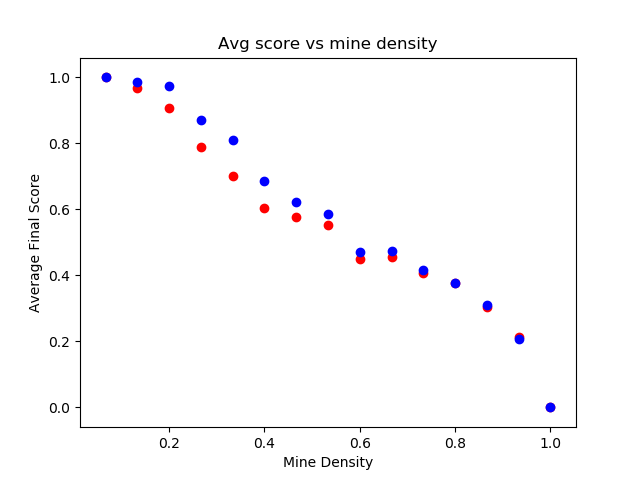
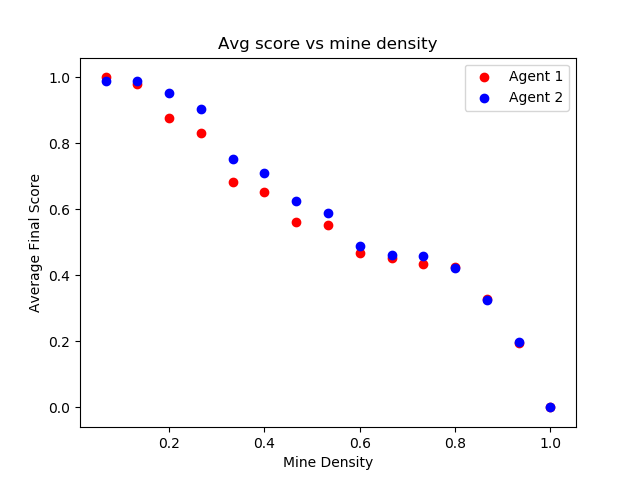
more comments done

diff --git a/runMS.py b/runMS.py
@@ -4,75 +4,82 @@ import numpy as np
 
 
 
-agent1_scores = []
-agent2_scores = []
+#test with user input make sure to uncomment graphics
+print("Please enter the dimension of the size board you want to play on: ")
+dim = int(input())
+print("Enter how many mines you want in the board: ")
+num_mines = int(input())
 
-# test with user input make sure to uncomment graphics
-# print("Please enter the dimension of the size board you want to play on: ")
-# dim = int(input())
-# print("Enter how many mines you want in the board: ")
-# num_mines = int(input())
-
-# matrix = get_answer_key(dim, num_mines)
-# playboard1, flags1 = play_minesweeper(dim,matrix,False)
-# playboard2, flags2 = play_minesweeper(dim,matrix,True)
-
-#testing for data
-dim = 15
-num_mines = 15
-while num_mines <= 225:
-    flags_a1 = 0
-    flags_a2 = 0
-    for i in range(0,5):
-	    matrix = get_answer_key(dim, num_mines)
-	    #run without agent 2
-	    playboard1, flags1 = play_minesweeper(dim,matrix,False)
-	    for i in range(0,dim):
-	        for j in range(0, dim):
-	            if(playboard1[i,j].mine == 3):
-	                flags_a1+=1
-
-	    #run with agent2
-	    playboard2, flags2 = play_minesweeper(dim,matrix,True)
-	    for i in range(0,dim):
-	        for j in range(0, dim):
-	            if(playboard2[i,j].mine == 3):
-	                flags_a2+=1
-    #add as a tuple as density vs flag success rate
-    agent1_scores.append((num_mines/225, float(flags_a1/(num_mines*5))))
-    agent2_scores.append((num_mines/225, float(flags_a2/(num_mines*5))))
-    print("MINES ", num_mines)
-    num_mines+=15
-
-x = np.empty(len(agent1_scores))
-y1 = np.empty(len(agent1_scores))
-y2 = np.empty(len(agent2_scores))
-ctr = 0
-
-for item in agent1_scores:
-    print("num_mines1: ", item[0], "score1: ", item[1])
-    x[ctr] = item[0]
-    y1[ctr] = item[1]
-    ctr += 1
-
-ctr = 0
-for item2 in agent2_scores:
-    print("num_mines2: ", item2[0], "score2: ", item2[1])
-    y2[ctr] = item2[1]
-    ctr += 1
-
-# x = np.array(agent1_scores[0])
-# y1 = np.array(agent1_scores[1])
-# y2 = np.array(agent2_scores[1])
-print(x)
-print(y1)
-print(y2)
+matrix = get_answer_key(dim, num_mines)
+playboard1, flags1 = play_minesweeper(dim,matrix,False)
+playboard2, flags2 = play_minesweeper(dim,matrix,True)
 
 
-plt.scatter(x,y1,color='r')
-plt.scatter(x,y2,color='b')
-plt.title('Avg score vs mine density')
-plt.xlabel('Mine Density')
-plt.ylabel('Average Final Score')
-plt.savefig('avgscore_minedensity.png')
-plt.show()
+
+#***START ANALYSIS***
+
+
+# agent1_scores = []
+# agent2_scores = []
+
+# #testing for data
+# dim = 15
+# num_mines = 15
+# while num_mines <= 225:
+#     flags_a1 = 0
+#     flags_a2 = 0
+#     for i in range(0,5):
+# 	    matrix = get_answer_key(dim, num_mines)
+# 	    #run without agent 2
+# 	    playboard1, flags1 = play_minesweeper(dim,matrix,False)
+# 	    for i in range(0,dim):
+# 	        for j in range(0, dim):
+# 	            if(playboard1[i,j].mine == 3):
+# 	                flags_a1+=1
+
+# 	    #run with agent2
+# 	    playboard2, flags2 = play_minesweeper(dim,matrix,True)
+# 	    for i in range(0,dim):
+# 	        for j in range(0, dim):
+# 	            if(playboard2[i,j].mine == 3):
+# 	                flags_a2+=1
+#     #add as a tuple as density vs flag success rate
+#     agent1_scores.append((num_mines/225, float(flags_a1/(num_mines*5))))
+#     agent2_scores.append((num_mines/225, float(flags_a2/(num_mines*5))))
+#     print("MINES ", num_mines)
+#     num_mines+=15
+
+# #make numpy arrays out of data to put in scatterplot 
+# x = np.empty(len(agent1_scores))
+# y1 = np.empty(len(agent1_scores))
+# y2 = np.empty(len(agent2_scores))
+# ctr = 0
+
+# for item in agent1_scores:
+#     print("num_mines1: ", item[0], "score1: ", item[1])
+#     x[ctr] = item[0]
+#     y1[ctr] = item[1]
+#     ctr += 1
+
+# ctr = 0
+# for item2 in agent2_scores:
+#     print("num_mines2: ", item2[0], "score2: ", item2[1])
+#     y2[ctr] = item2[1]
+#     ctr += 1
+
+
+# # print(x)
+# # print(y1)
+# # print(y2)
+
+# #plot data in scatterplot
+# plt.scatter(x,y1,color='r', label = 'Agent 1')
+# plt.scatter(x,y2,color='b', label = 'Agent 2')
+# plt.title('Avg score vs Mine density')
+# plt.xlabel('Mine Density')
+# plt.ylabel('Average Final Score')
+# plt.legend()
+# plt.savefig('avgscore_minedensity.png')
+# plt.show()
+
+#***END ANALYSIS***

diff --git a/main.py b/main.py
@@ -65,7 +65,6 @@ def play_minesweeper(dim,matrix,agent2_2):
     playboard[v,w].num = matrix[v,w]
     if (w,v) not in clicked:
         clicked.append((w,v))
-        # print("appended", (v,w))
     #update the knowledge base (playboard) based on if it is a 9(mine) or not
     if (matrix[v,w] != 0):
         if (matrix[v,w] == 9):
@@ -77,7 +76,6 @@ def play_minesweeper(dim,matrix,agent2_2):
         if (v,w) not in knowledge_expanded:
             updateKB(playboard,(v,w), dim, matrix, clicked)
             knowledge_expanded.add((v,w))
-    # print("random",(v,w))
 
     #keep clicking spots in the initial part of the game until you get a 0 so that you can expand safely from there
     while(matrix[v,w] != 0):
@@ -86,23 +84,17 @@ def play_minesweeper(dim,matrix,agent2_2):
         playboard[v,w].num = matrix[v,w]
         if (w,v) not in clicked:
             clicked.append((w,v))
-            # print("appended", (v,w))
         if (v,w) not in knowledge_expanded:
             updateKB(playboard,(v,w), dim, matrix, clicked)
             knowledge_expanded.add((v,w))
         if len(clicked)>dim/5:
             break
-        # print("Random: ", (v,w))
-    #pprint(agent2.populateEQMap(dim,playboard,set_of_coords))
 
     #use this method to expand all the safe neighbors from the coordinate that has a 0 value
     #all values around a 0 are safe
     if playboard[v,w].num == 0:
         playboard = bfs_from_0(playboard,(v,w), dim, matrix, knowledge_expanded, set_of_coords, clicked)
 
-    # for i in range(0,dim):
-    #     for j in range(0,dim):
-    #         print((i,j), playboard[i,j])
 
     deep_copy = set()
     for coords in set_of_coords:
@@ -117,12 +109,8 @@ def play_minesweeper(dim,matrix,agent2_2):
     #while size>0:
 
     while(len(set_of_coords)>0):
-        #graphics.display_graphics(playboard, dim)
-
         prev_len = len(set_of_coords)
-        # prev_len = size
-        # print("SIZE", size)
-        # print("prev", prev_len)
+
 
         #deep_copy is same as set_of_coords
         for coords in deep_copy:
@@ -162,21 +150,14 @@ def play_minesweeper(dim,matrix,agent2_2):
 
 
 
-
+        #run agent 2 if specified in parameters
         if(prev_len == len(set_of_coords)):
             if agent2_2 == True:
-            #if prev_len == size:
                 prev_len = len(set_of_coords)
-                # print("here")
                 counter+=1
 
-                # print("The length of clicked before is ", len(clicked))
-                # print("-------------------- start -----------------------")
                 flag_counter = agent2.populateEQMap(dim, playboard, set_of_coords, matrix, clicked, knowledge_expanded, flag_counter)
-                # print("--------------------- end ------------------------")
-                # print("The length of clicked after is ", len(clicked))
-                # print("in main")
-                # pprint(set_of_coords)
+
 
             #generate a new random number
             #if size > 0:
@@ -186,10 +167,8 @@ def play_minesweeper(dim,matrix,agent2_2):
                     set_of_coords.add(randCoord)
                 v = randCoord[0]
                 w = randCoord[1]
-                #playboard[v,w].num = matrix[v,w]
                 if (w,v) not in clicked:
                     clicked.append((w,v))
-                    # print("randomly appended", (v,w))
                 if (v,w) not in knowledge_expanded:
                     updateKB(playboard,(v,w), dim, matrix, clicked)
                     knowledge_expanded.add((v,w))
@@ -197,18 +176,8 @@ def play_minesweeper(dim,matrix,agent2_2):
                     if(playboard[v,w].num == playboard[v,w].numIdentMines or playboard[v,w].mine == 1):
                         set_of_coords.remove((v,w))
 
-
-    # for i in range(0,dim):
-    #     for j in range(0,dim):
-    #         if (i,j) in set_of_coords:
-    #             print((i,j), playboard[i,j])
-
-
-    #print(agent2.populateEQMap(dim,playboard,set_of_coords))
-    print("this is the FINAL LENGTH", len(clicked))
-    #print("PWEASE: ", flag_counter)
-    # for obj in clicked:
-    #     print(obj)
-    #graphics.display_graphics(playboard, dim, clicked)
+    
+    #this displays the board using pygame
+    graphics.display_graphics(playboard, dim, clicked)
 
     return playboard, flag_counter

diff --git a/graphics.py b/graphics.py
@@ -2,7 +2,6 @@ import pygame
 
 #DISPLAY GRAPHICS
 def display_graphics(matrix, dim, clicked):
-    print(clicked)
     pygame.init()
 
     #define variables
@@ -50,10 +49,6 @@ def display_graphics(matrix, dim, clicked):
                 running = True  # Flag that we are done so we exit this loop
             elif event.type == pygame.MOUSEBUTTONDOWN:
                 move+=1
-                #if move < dim*dim:
-                #     print(clicked[move][1], clicked[move][0])
-                # else:
-                #     print("done")
 
                 if move < dim*dim:
                     for m in range(move+1):
